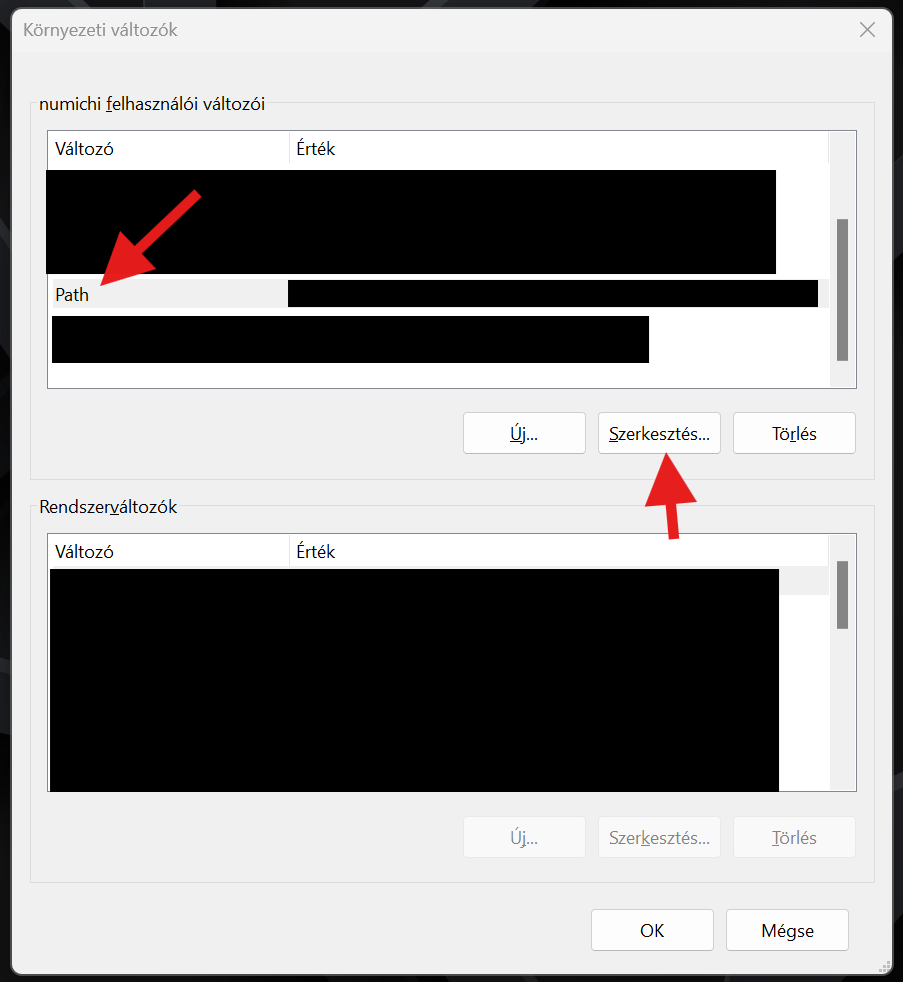
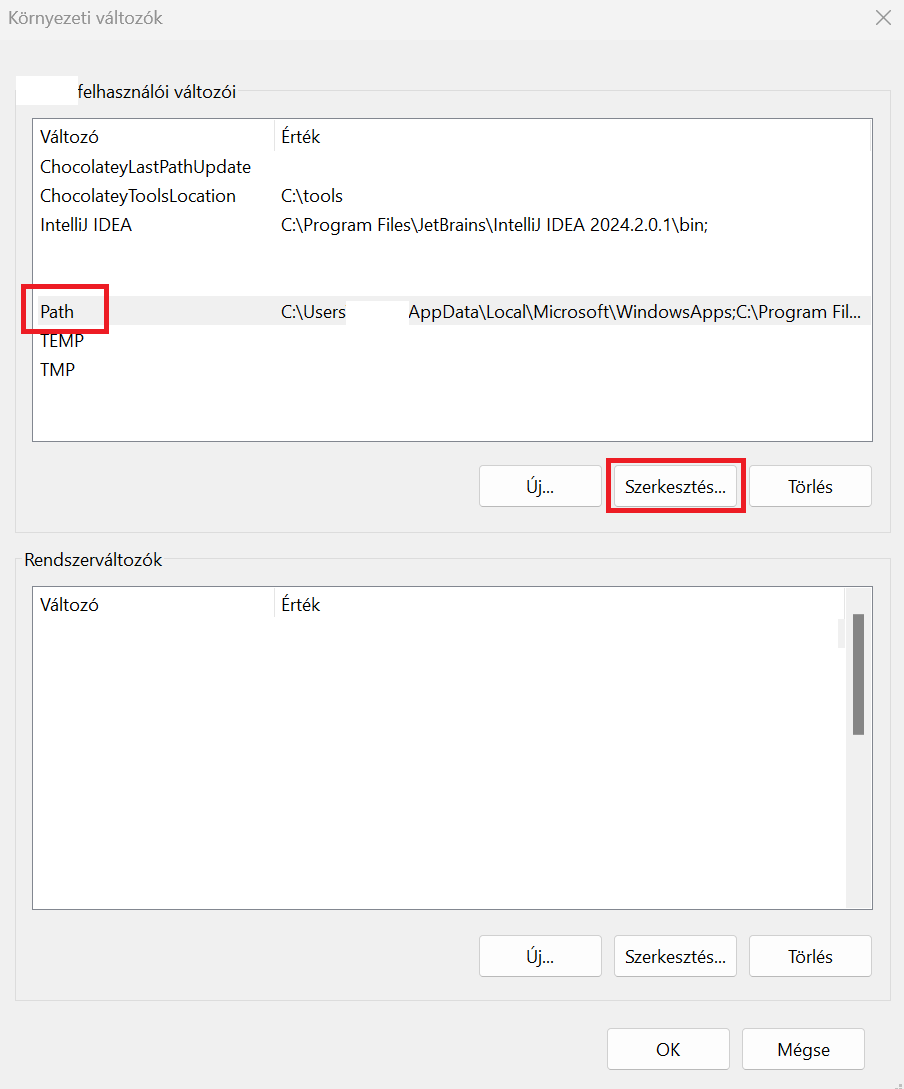
Add C & C++

diff --git a/docs/bevezetes/fejlesztoi-kornyezet.md b/docs/bevezetes/fejlesztoi-kornyezet.md
@@ -60,20 +60,25 @@ Windows-on azért már nem olyan egyszerű a történet. Az utóbbi időben a Wi
 
 Így két lehetséges (ha úgy tetszik) támogatást mutatok be, ami segít a programok telepítésében vagy használatában. Az egyik ilyen a Chocolatey, ami inkább hasonlít egy Linux repository-hoz vagy akár említhetném a GooglePlay-t vagy AppleStore-t. De a Chocolatey egy program gyűjtemény tároló, ami leegyszerűsíti a programok telepítését és menedzselését, beleértve annak frissítését is. Ez közvetlen a Windows-ra telepít és onnan használható.
 
-A másik lehetséges irány, amit bemutatok, a WSL (Windows Subsystem for Linux), ami egy virtuális Linux réteget hoz létre a Windows rendszerre. Így, az ide telepített programok Linux környezeten fog fugni, azaz az itt fordított program Linux környezeten fog végbe menni. Fontos, hogy a platform függő nyelvek Linux-os fordítást követően nem indulnak Windows-on és fordítva se. Azaz a Linux nem ismeri az `exe`-t.
+A másik lehetséges irány, amit bemutatok, a WSL2 (Windows Subsystem for Linux), ami egy virtuális Linux réteget hoz létre a Windows rendszerre. Így, az ide telepített programok Linux környezeten fog fugni, azaz az itt fordított program Linux környezeten fog végbe menni. Fontos, hogy a platform függő nyelvek Linux-os fordítást követően nem indulnak Windows-on és fordítva se. Azaz a Linux nem ismeri az `exe`-t.
 
-Én személy szerint mindkettőt használom és javaslom mindkettő beállítását Windows-on. A fejlesztéshez a WSL-t előnyben fogom részesíteni. Miért? Mert, ha szerver oldali alkalmazásról van szó, akkor 99%, hogy Linux vagy Linux alapú környezetben fog futni valós munkafolyamatok során is.
+[//]: # (TODO: Megvizsgálni majd, hogy WSL2 Hostolás esetében problémába ütközünk-e)
+> [!WARNING]
+> Nem tudom, hogyan fog viselkedni, ha WSL2-ben hosztolunk egy adott porton általunk írt projektet. Azt hogyan érjük el Windows oldalt böngészőből. Sose próbáltam. Majd, ha falba ütközünk, akkor majd korrigálom a leírást. Addigis első körben nem akadályoz mindent egy darabig.
 
-### WSL plugin
-Ha WSL-en szeretnél fejleszteni és futtatni, akkor a szükséged lesz a WSL plugin-ra. Először is keres rá a WSL plugin-ra. Ezt egy "legó" szerű iconon keresztül tudod megtenni. (Segítséget [itt](https://code.visualstudio.com/docs/editor/extension-marketplace) találsz.) Majd tenyerelj rá az `Install`-ra.
+### WSL2 plugin
+Ha WSL2-en szeretnél fejleszteni és futtatni, akkor a szükséged lesz a WSL2 plugin-ra. Először is keres rá a WSL2 plugin-ra. Ezt egy "legó" szerű iconon keresztül tudod megtenni. (Segítséget [itt](https://code.visualstudio.com/docs/editor/extension-marketplace) találsz.) Majd tenyerelj rá az `Install`-ra.
 
-![WSL Plugin](../public/img/bevezetes/install/vscode/code-plugin-wsl.png)
+![WSL2 Plugin](../public/img/bevezetes/install/vscode/code-plugin-wsl.png)
 
-Ha van WSL-ed már, akkor rátudsz csatlakozni.
+Ha van WSL2-ed már, akkor rátudsz csatlakozni.
 
-![WSL Plugin](../public/img/bevezetes/install/vscode/code-plugin-wsl-connect.png)
+![WSL2 Plugin](../public/img/bevezetes/install/vscode/code-plugin-wsl-connect.png)
 
-Majd bal-lent meg kell jelennie a `WSL: Ubuntu-24.04`-nek, vagy amire csatlakoztál.
+Majd bal-lent meg kell jelennie a `WSL2: Ubuntu-24.04`-nek, vagy amire csatlakoztál.
+
+> [!IMPORTANT]
+> Minden plugin telepítés elött csatlakoznod kell a WSL2-re, mert a plugin-t oda menti le és onnan használja. Ha későbbiekben nem használnád a WSL2-t, akkor a VS Code úgy látja, hogy nincs az a plugin feltelepítve!
 
 ## Windows Chocolatey telepítése
 
@@ -84,12 +89,12 @@ Telepítéséhez nyiss egy adminisztrációs joggal egy Windows terminált. Ezt 
 Set-ExecutionPolicy Bypass -Scope Process -Force; [System.Net.ServicePointManager]::SecurityProtocol = [System.Net.ServicePointManager]::SecurityProtocol -bor 3072; iex ((New-Object System.Net.WebClient).DownloadString('https://community.chocolatey.org/install.ps1'))
 ```
 
-![WSL Plugin](../public/img/bevezetes/install/choco/choco-install-0.png)
+![WSL2 Plugin](../public/img/bevezetes/install/choco/choco-install-0.png)
 
-Kész is.
+Kész is. Majd az első `choco install` esetén előfordul, hogy eltart majd egy darabig.
 
 
-## Ubuntu WSL telepítés Windows-on
+## Ubuntu WSL2 telepítés Windows-on
 
 Teljes leírás [itt](https://canonical-ubuntu-wsl.readthedocs-hosted.com/en/latest/guides/install-ubuntu-wsl2/).
 
@@ -98,17 +103,17 @@ Teljes leírás [itt](https://canonical-ubuntu-wsl.readthedocs-hosted.com/en/lat
 
 1. Nyiss egy rendszergazda jogosultsággal egy terminált
 
-    ![WSL Install Step -1](../public/img/bevezetes/install/windows-terminal-administrator_sign.png)
+    ![WSL2 Install Step -1](../public/img/bevezetes/install/windows-terminal-administrator_sign.png)
 
 2. Add ki a következő parancsot:
     ```powershell
     wsl.exe --install
     ```
-    ![WSL Install Step 0](../public/img/bevezetes/install/wsl/wsl-install-0_sign.png)
+    ![WSL2 Install Step 0](../public/img/bevezetes/install/wsl/wsl-install-0_sign.png)
 
 3. Ezt követően, ha Start menüben elindítod az Ubuntu-t, amit nem indulna el.
 
-   ![WSL Install Step 1](../public/img/bevezetes/install/wsl/wsl-install-1_sign.png)
+   ![WSL2 Install Step 1](../public/img/bevezetes/install/wsl/wsl-install-1_sign.png)
 
 Itt két lehetőséged van a további telepítésre. Windows Store-ban megkeresed az Ubuntu 24.04-et (vagy amelyik tetszik) és azon keresztül telepíted, vagy a következő parancsokat adod ki az adminisztrátorral elindított Windows terminálon:
 
@@ -116,32 +121,32 @@ Itt két lehetőséged van a további telepítésre. Windows Store-ban megkerese
     ```powershell
     wsl --list –online
     ```
-   ![WSL Install Step 2](../public/img/bevezetes/install/wsl/wsl-install-2_sign.png)
+   ![WSL2 Install Step 2](../public/img/bevezetes/install/wsl/wsl-install-2_sign.png)
 
 5. Én majd az Ubuntu 24.04-et fogom használni, így a lista bal oldali név azonosítót adom meg a következő parancsnak:
     ```powershell
     wsl --install -d Ubuntu-24.04
     ```
-   ![WSL Install Step 3](../public/img/bevezetes/install/wsl/wsl-install-3_sign.png)
+   ![WSL2 Install Step 3](../public/img/bevezetes/install/wsl/wsl-install-3_sign.png)
 
 Ez a folyamat a jelenlegi `Ubuntu` (ami az előző hosszú kiadású rendszer) mellé teszi fel az újabb hosszú kiadású rendszert. A folyamat végén kövesd a lentebb lévő `Mit csinálj, ha több Ubuntu-d van` pontot.
 
 6. Telepítés után kér minket a rendszer újra indítására. Ha ez kimarad, Ubuntu 24.04 is ugyanúgy megjelenik az alkalmazási listában, de nem fog elindulni.
 
-    ![WSL Install Step 4](../public/img/bevezetes/install/wsl/wsl-install-4_sign.png)
+    ![WSL2 Install Step 4](../public/img/bevezetes/install/wsl/wsl-install-4_sign.png)
 
 7. Újraindítást követően automatikusan elindul az Ubuntu konfiguráció (ha nem, csak indítsd el)
 
 8. Kér egy felhasználó nevet, ez tetszőleges lehet.
 
-   ![WSL Install Step 5](../public/img/bevezetes/install/wsl/wsl-install-5_sign.png)
+   ![WSL2 Install Step 5](../public/img/bevezetes/install/wsl/wsl-install-5_sign.png)
 
 
 9. Majd kérni fog UNIX jelszót, kétszer. **Nem fogja jelezni, ha gépelsz! Nem fogsz látni `*****`-okat.** Ez lesz a felhasználód jelszó. **Mindenképpen jegyezd meg**, mert később kelleni fog.
 
-    ![WSL Install Step 6](../public/img/bevezetes/install/wsl/wsl-install-6_sign.png)
+    ![WSL2 Install Step 6](../public/img/bevezetes/install/wsl/wsl-install-6_sign.png)
 
-Meg is vagyunk. Kaptunk egy Linux WSL-t. Most frissítsük.
+Meg is vagyunk. Kaptunk egy Linux WSL2-t. Most frissítsük.
 
 > [!NOTE]
 > Ha folyamat során `[Y/n]` kérdés elé állít, akkor az `y` az igen. A nagybetű annyit jelent, hogy ha nem írsz be `y` vagy `n`, hanem csak entert nyomsz, akkor a nagybetűs opció lesz érvényben.
@@ -162,27 +167,27 @@ $ sudo apt upgrade
 > [!NOTE]
 > A `sudo` annyit tesz, hogy "superuser do", azaz rendszergazda nevében adod ki a következő utasítást: `sudo <parancs(ok)>`. A `sudo` esetén alapértelmezett beállítás mellet mindig megkérdezi a felhasználói jelszavad, amennyiben van `sudo` jogod az adott parancshoz. _(Most lesz.)_ Ennek van egy lejárati ideje, azaz folyton `sudo`-t használva nem kéri be mindig a jelszót. Linux alatt, csak akkor `sudo`-z, ha máshogy nem megoldható az adott feladat. Pl. a telepítés és frissítés ilyen.
 
-Van egy jó meleg ropogós és friss Ubuntu WSL-ünk.
+Van egy jó meleg ropogós és friss Ubuntu WSL2-ünk.
 
-Mivel a WSL "szimbiózisban" él a Windows-al, így fájlok szintjén mindkét irányban elérhetővé válik a történet. Windows oldalt a Fájlkezelő-ből azonnal elérhető a linux mappa struktrája, de a linux-ból is a `C:/` és a többi meghajtó. Mivel nekem van 3 is, így a `/mnt/c` alatt lesz a `C:/`, ami zöld alapon kék betűvel jelez.
+Mivel a WSL2 "szimbiózisban" él a Windows-al, így fájlok szintjén mindkét irányban elérhetővé válik a történet. Windows oldalt a Fájlkezelő-ből azonnal elérhető a linux mappa struktrája, de a linux-ból is a `C:/` és a többi meghajtó. Mivel nekem van 3 is, így a `/mnt/c` alatt lesz a `C:/`, ami zöld alapon kék betűvel jelez.
 
-![WSL Install Step 6](../public/img/bevezetes/install/wsl/wsl-install-7_sign.png)
+![WSL2 Install Step 6](../public/img/bevezetes/install/wsl/wsl-install-7_sign.png)
 
-![WSL Install Step 6](../public/img/bevezetes/install/wsl/wsl-install-8_sign.png)
+![WSL2 Install Step 6](../public/img/bevezetes/install/wsl/wsl-install-8_sign.png)
 
 ### Mit csinálj, ha:
 
 #### Több Ubuntu-d van, de egyet szeretnél:
-A fenti példában mikor én csináltam, egyszerre van jelen a 22.04 és a 24.04. Ubuntu-ból félévente jelenik meg új verzió, de 2 évente van hosszan támogatott kiadás (azaz LTS). A wsl telepítése a 22.04-et tette fel, de amit fent vázlatoltam, az a 24.04-et. Tehát, Windows-on a WSL alatt 2 rendszer mappának kellene lennie. Egy sima `Ubuntu` és egy `Ubuntu-24.04`-nek.
+A fenti példában mikor én csináltam, egyszerre van jelen a 22.04 és a 24.04. Ubuntu-ból félévente jelenik meg új verzió, de 2 évente van hosszan támogatott kiadás (azaz LTS). A wsl telepítése a 22.04-et tette fel, de amit fent vázlatoltam, az a 24.04-et. Tehát, Windows-on a WSL2 alatt 2 rendszer mappának kellene lennie. Egy sima `Ubuntu` és egy `Ubuntu-24.04`-nek.
 
 **Az egyik lehetőséged, hogy csak törlöd az alkalmazások közül:**
 
 ![Ubuntu törlés](../public/img/bevezetes/install/wsl/ubuntu-remove.png)
 
-**A másik lehetőséged, hogy alapértelmezettet cserélsz és/vagy le regisztrálod a WSL-ből**, de attól még megtartja és egy véletlen indítással újból aktív lesz (én úgy tapasztaltam):
+**A másik lehetőséged, hogy alapértelmezettet cserélsz és/vagy le regisztrálod a WSL2-ből**, de attól még megtartja és egy véletlen indítással újból aktív lesz (én úgy tapasztaltam):
 
 Iníts egy adminisztátori windows terminált
-Nézd meg milyen WSL rendszereid vannak:
+Nézd meg milyen WSL2 rendszereid vannak:
 ```powershell
 wsl -l
 ```

diff --git a/docs/bevezetes/nyelvi-kornyezet.md b/docs/bevezetes/nyelvi-kornyezet.md
@@ -3,7 +3,149 @@ outline: deep
 lastUpdated: 2024-08-16
 ---
 
-# Nyelvi környezet:
+# Nyelvi környezet
 
-> [!WARNING]
-> Szerkesztés alatt
+## C, C++
+
+### Telepítés
+Forrás: [C/C++ for Visual Studio Code](https://code.visualstudio.com/docs/languages/cpp)
+
+#### Linux, WSL2
+Ha Linux-on vagy, vagy WSL2-t használsz, akkor egyszerűen kiadod ezt, vagy a disztribúciónak megfelelően.
+```bash
+$ sudo apt install gcc g++
+```
+
+#### macOS
+```bash
+$ brew install gcc
+```
+
+#### Windows Chocolatey
+```powershell
+choco install -y msys2
+```
+
+Ezt követően elhelyez el helyez egy `tools` mappát a `C:\` alatt. Ezen belül indísd el a `C:\tools\msys64\crt64.exe`-t, majd írd be ide, hogy:
+
+```bash
+$ pacman -S --needed base-devel mingw-w64-ucrt-x86_64-toolchain
+```
+
+Telepítés alatt két kérdést fog feltenni. Elegendő, ha mindkét esetben csak egy `enter`-t nyomsz. Majd, mihelyt visszaadta a prompt-ot _(azaz a parancs beíró mezőt ami `$` kezdődik)_, bezárhatod az ablakot.
+
+Most állítsuk be a környezeti változót, hogy hozzá férj Windows oldalt a feltelepített fordítóhoz.
+
+Ehhez Windows Start-ot megnyitva vagy az alkalmazás keresőbe írd be, hogy `környezeti` vagy csak az elejét. Meg kell jelennie egy `A rendszer környezeti változóinak módosítása` elemnek. Azt nyisd meg. Ilyet kellene, hogy kapj. Majd legalul válaszd a `Környezeti változók...`-ot.
+
+![MSYS2 Path 0](../public/img/bevezetes/install/c/msys2-path-setting-0.png)
+
+Jelöld ki a fenti ablakban a `Path`-ot majd kattints a `Szerkesztés…` gombra.
+
+![MSYS2 Path 1](../public/img/bevezetes/install/c/msys2-path-setting-1.png)
+
+Megjelenik egy szerkesztési ablak, ahol új mezőt kell felvenni. Kattints az `Új`-ra, majd megjelenik egy kurzor, ahova betudnál gépelni valamit. Ekkor vagy kézzel adod meg, vagy `Tallózás`-ra kattintva oda navigálsz. Amit keresned kell: ` C:\tools\msys64\ucrt64\bin`. Mihelyt sikerült hozzáadni, csak `OK`-ézd le az összes ablakot.
+
+![MSYS2 Path 2](../public/img/bevezetes/install/c/msys2-path-setting-2.png)
+
+Nyiss egy windows terminált és írd be ezt, hogy `gcc --version`. Ha kiírja a következőt vagy hasonlót, jó voltál.
+
+```
+gcc.exe (Rev3, Built by MSYS2 project) 14.1.0
+Copyright (C) 2024 Free Software Foundation, Inc.
+This is free software; see the source for copying conditions.  There is NO
+warranty; not even for MERCHANTABILITY or FITNESS FOR A PARTICULAR PURPOSE.
+```
+
+#### Windows kézi telepítés
+
+A [MSYS2 oldalán](https://www.msys2.org/) kézzel töltöd le a telepítőt. Ezt az `Installation` vörös cím alatt találod közvetlenül. Neve: `msys2-x86_64-<DÁTUM>.exe` lesz. Ezt indísd el, majd next-next-next. Nem kell külön megnyitni, mert telepítés után megnyílik neked automatikusan. Ha még se, akkor megtalálod `C:\msys64\crt64.exe` itt.
+
+Innentől megegyezik a `Chocolatey` verzióval, annyi eltéréssel, hogy nem kell a `tools` útvonal, mert alapértelmezetten a `C:\` alá teszi.
+
+### VS Code beállítása
+
+> [!NOTE]
+> Ha van WSL2-t Windows-on és oda dolgozol, akkor csatlakozz plugin telepítés elött.
+
+#### Plugin telepítés
+3 Plugin-t szükséges telepíteni. A Plugin nézethez kattints bal oldalon a plugin menüre.
+
+- C/C++
+- C/C++ Extension Pack
+- Code Runner (Ha már fent van, nem szükséges mégegyszer)
+
+![C/C++ Plugins](../public/img/bevezetes/install/c/vscode-plugin-0.png)
+
+![Code Runner](../public/img/bevezetes/install/vscode/vscode-code-runner-plugin.png)
+
+#### Teszt futtatás
+Hogy meg bizonyosodjunk, hogy készen áll-e a környezet, akkor csináljunk két ideiglenes fájlt, amit majd törlünk a folyamat végén.
+
+Egy üres fájl létrehozása:
+
+- Jobb fent `File` -> `New file...` -> `Text file` (kattints rá)
+- Felülre a `search` mezőbe beírod, hogy `> text file`. A `>` karakter szükséges, amit az jobb oldali `Alt` vagy egyes billentyűzeteken `AltGr` és `í` karakter.
+- Egyszerűen lenyomod a `Ctrl + N` kombinációt.
+
+Az egyik tartalma legyen ez a `C` kód, és mentsd el `Ctrl + S` kombinációval `example1.c` néven. A `.c` a fontos.
+```c
+#include <stdio.h>
+
+int main() {
+    printf("Hello, World!\n");
+    return 0;
+}
+```
+
+Az másik tartalma legyen ez a `C++` kód, és mentsd el `Ctrl + S` kombinációval `example2.cpp` néven. A `.cpp` a fontos.
+```cpp
+#include <iostream>
+
+int main() {
+    std::cout << "Hello, world!" << std::endl;
+    return 0;
+}
+```
+
+Válaszd ki azt a fájlt amit futtatni szeretnél és jobb fent látsz egy "lejátszás" gombot és mellette egy lefele mutató nyil szerüséget. (Ha ráviszed az egeret kiírja, hogy `Run or Debug...`). Azt lenyítva a `Run Code`-ra menj. Vagy a gyorsabb megoldás a mellette jelzett "short-cut", azaz a `Ctrl + Alt + N` ugyanazt eredményezi.
+
+Meg kellene jelennie egy `OUTPUT` nevű új belső ablaknak, ahol látnod kell a következőt:
+
+```
+Hello, World!
+```
+
+Ha ez meg van, akkor SIKER! Akkor kitörölheted a fájlokat. Vedd figyelembe, hogy most 4 lesz. 1-1 `.c` és `.cpp` mellet további kettő. Ezek a lefordítottak. Windows esetén ezek `.exe`-k lesznek. Ezek mehetnek a levesbe.
+
+## Rust
+
+Írás alatt
+
+## Go
+
+Írás alatt
+
+## Java
+
+Írás alatt
+
+## Kotlin
+
+Írás alatt
+
+## Python
+
+Írás alatt
+
+## PHP
+
+Írás alatt
+
+## JavaScript, TypeScript
+
+Írás alatt
+
+## HTML, CSS
+
+Nincs szükség, a böngésző értelmezi közvetlen a fájlokból.

diff --git a/docs/bevezetes/elso-lepesek.md b/docs/bevezetes/elso-lepesek.md
@@ -135,5 +135,28 @@ Ha pedig kérdésed lenne, azt számos módon felteheted.
 
 Facebook-on is írhattok, de ott nem garantálom, hogy reagálni fogok.
 
-> [!WARNING] Figyelem
+De, azért írok pár tipikus kérdést, amit neten úgy szembe szokott jönni.
+
+> [!WARNING]
 > Ha célzottan nekem szeretnétek írni, akkor ez esetben tegyétek hozzá, hogy honnan jöttök, hogy be tudjam azonosítani, hogy miért írtok. (Pl. "Numichi.Dev oldalról jöttem")
+
+### Kell-e diploma?
+> [!WARNING]
+> Nem vagyok HR szakember, így csak a saját perspektívámból tudok írni. Benne van, hogy eltér az általad tapasztaltaktól.
+
+Ez a kérdés elég sokszor szembe jöhet a magyar gyakorikérdések.hu oldalon és ahány ember annyi vélemény, és meddő vitába torkollik.
+
+Az IT területén való munkavégzéshez nem feltétlenül szükséges egyetemi diploma, mesterdiploma vagy doktori cím, de elősegíti a karriered. A munkáltatók inkább a tapasztalatot és a képességeket értékelik, nem pedig a megszerzett diplomákat részesítik előnyben. Természetesen ez azokra tud igaz lenni, aki már rendelkezik X év tapasztalattal, de ez se a semmiből jön, ugye. Valahol el kellet mindenkinek kezdeni. A kezdő IT-s emberek számára inkább, úgy tudnék fogalmazni, hogy attól függ…
+
+Függ a cég piaci helyzetétől, munkaerőpiac állapotától. 2022-ben mikor mindenkit is fekete lyukként kebeleztek be, akkor nem számított. Ezért is virágoztak a bootcamp-ek, akik 3-6 hónap után jó fizetéssel csábított mindenkit állás-garanciával. Aztán 2023-ban több munkaerő volt, mint kellet a futó projektre, így nem tudtak munkát biztosítani a feleslegnek. Így elbocsátási hullám keletkezet. Ebben a környezetben persze valahogy ki kell tűnni. Tehát 2024 nem a Juniorok éve lesz és felteszem a 2025 Q1-2 sem nagyon. Követni kell a paicot.
+
+A diploma mellet van az úgynevezett `Certificate` vizsgák, amit cégek vagy szervezetek bocsátanak ki bizonyítási jelleggel, hogy rendelkezel egy specifikus tudással vagy ismerettel az általuk fejlesztett termékről, amit a munkaadók elfogadnak. A diplomákkal ellentétben ennek van érvényességi ideje, mivel maga a termék is fejlődik, így jellemzően 1 év utána érvényét veszti. És mivel speciális tudásról van szó, így célzott munkakörökre akár erősebben nyom, mint egy diploma.
+
+### Javasom-e a Bootcamp-et?
+A Bootcamp az alapjában véve egy szolgáltatás, amit egy gazdasági cég ad. Az biztos, hogy nem olcsó mulatság, de nem is tud olcsó lenni. Miért? Tegyük fel, hogy dolgozol valamennyiért. Bevállalnád azt, hogy kiveszel szabadságot és fele annyiért elmész dolgozni máshova ideiglenesen? Szabadságod is elvész és fele annyit is keresel. Nem ugye? Az IT-ban ez 1-2 milliós összegek környékén mozog havi szinten és nem egy mentor van. Természetesen ez a `business as usual`, de vannak olyan mentorok, akik ingyen is csinálnák, mert szeretik ezt csinálni. Csak, azt meg a cég nem teheti meg, hogy ingyen foglalkoztat. És persze a cégnek is vannak egyéb kiadása is. Tehát, olcsóbb nem tud lenni.
+
+Azt is mindenképpen lekopogom, hogy ha még is jelentkezik valaki és bevállalja a költségeket, akkor annak hozadéka lesz. Egy előre megtervezett ösvényen végig kísérik, valóságos szituációkba kényszerítik és segítenek megérteni a szakma rejtelmeit. Továbbá rá leszel kényszerítve, hogy tanulj és gyakorolj. Lesz közvetlen mentorod, aki minden kérdésedre válaszol, még ha oltári baromságnak is tartod, magát a kérdésed.
+
+Természetesen ebbe az időkeretbe nem fér bele minden. Csak az alapok. Hogyan vezesd azt az autót, de hogy hogyan működik a motor és annak alkatrészei, abba nem mennek bele. Pedig az adja az igaz megértést, a hogyan működikről, csak hát erre ugye nincs idő...
+
+De, hogy hogyan fog teljesíteni a munkaerőpiacon ezzel a tudással, az már más kérdés. A `állás-garancia`-ban én nem bízok, mivel a munkaerőpiaci helyzet hamar felülírhatja. Én azt mondom, hogy gyakorolj, találj ki egy projektet és olyan technológiával old meg amit még nem ismersz. Vagy old meg újra, egy másik technológiával. Így több mindent látsz, és majd interjún jó benyomást kelthet az, hogy ezt is azt is láttad már.

diff --git a/docs/bevezetes/nyelvi-kornyezet_draw.md b/docs/bevezetes/nyelvi-kornyezet_draw.md
@@ -12,7 +12,7 @@ Windows-on azért körülményesebb, de több módon is megoldható. Az egyik me
 ### VS Code beállítása
 
 > [!WARNING] Figyelem!
-> Ha nincs MSYS2-d vagy WSL-ed, akkor az egyiket lépd meg a VS Code beállítása elött, mert a VS Code-nak kelleni fog a fordító.
+> Ha nincs MSYS2-d vagy WSL2-ed, akkor az egyiket lépd meg a VS Code beállítása elött, mert a VS Code-nak kelleni fog a fordító.
 
 ### MSYS2 telepítés
 
@@ -76,7 +76,7 @@ Telepítő parancsot [itt](https://community.chocolatey.org/packages/openjdk/21.
 choco install openjdk --version=21.0.0
 ```
 
-#### Telepítés Debian/Ubuntu vagy Ubuntu WSL-en
+#### Telepítés Debian/Ubuntu vagy Ubuntu WSL2-en
 ```bash
 $ sudo apt serach openjdk
 ```
